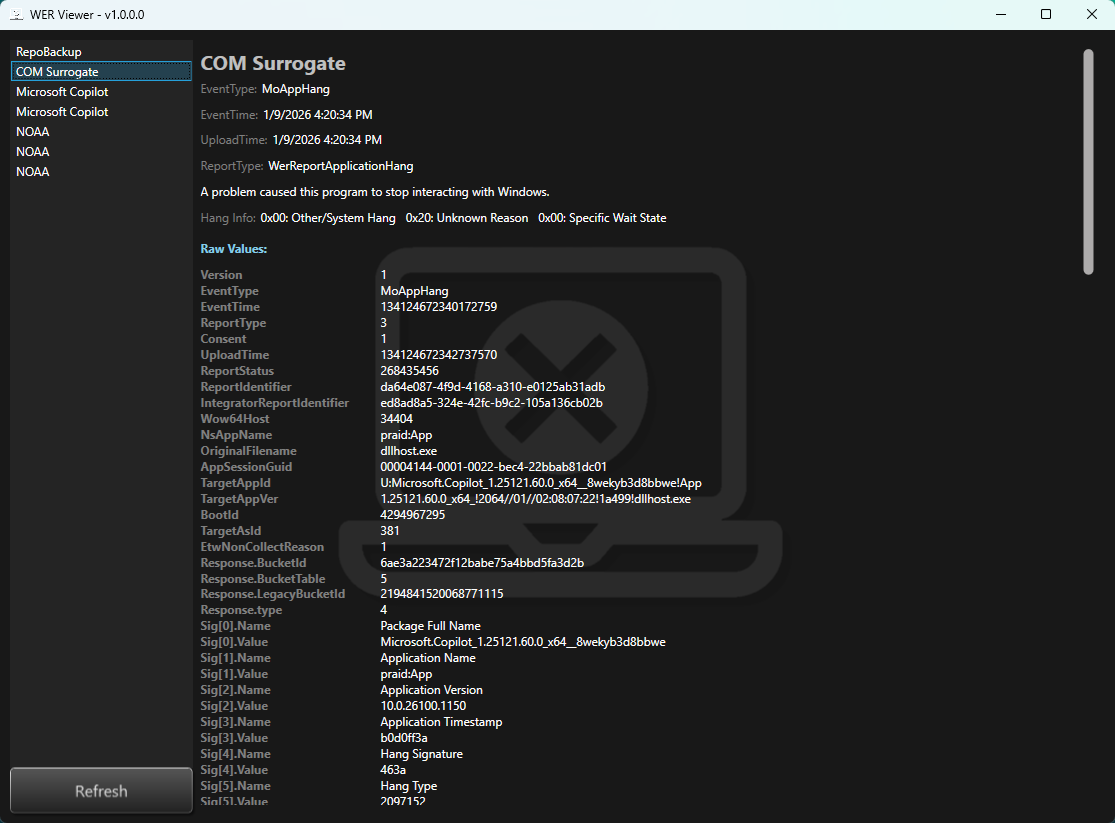
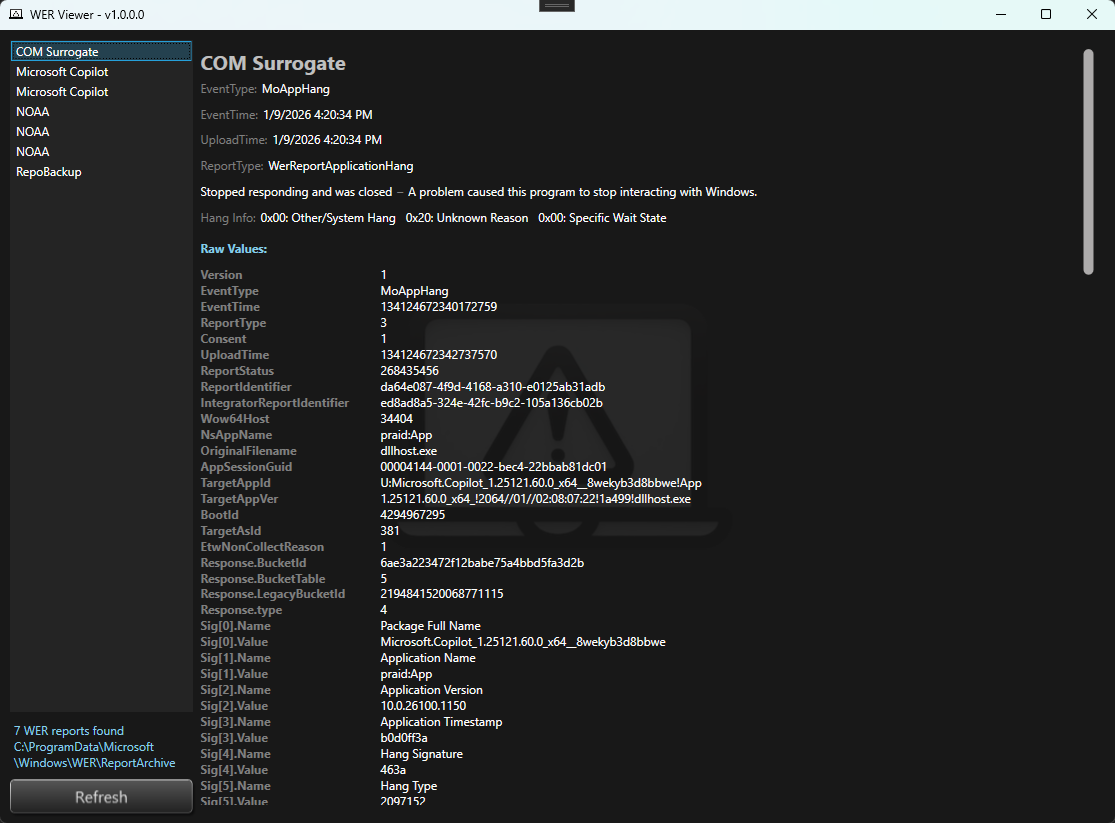
general updates

diff --git a/MainWindow.xaml b/MainWindow.xaml
@@ -13,7 +13,7 @@
     Background="#181818"
     Closing="Window_Closing"
     Deactivated="Window_Deactivated"
-    Icon="/Assets/logo.ico"
+    Icon="/Assets/logo3sm.ico"
     Loaded="Window_Loaded"
     SizeChanged="Window_SizeChanged"
     WindowStartupLocation="Manual"
@@ -27,7 +27,8 @@
 
         <Grid Grid.Column="0">
             <Grid.RowDefinitions>
-                <RowDefinition Height="16*" />
+                <RowDefinition Height="20*" />
+                <RowDefinition Height="2*" />
                 <RowDefinition Height="1*" />
             </Grid.RowDefinitions>
             <!--  List of reports  -->
@@ -49,9 +50,19 @@
                 Opacity="0.8"
                 Source="/Assets/empty.png"
                 Visibility="Hidden" />
+            <TextBlock
+                Grid.Row="1"
+                Padding="4"
+                HorizontalAlignment="Left"
+                VerticalAlignment="Center"
+                FontSize="12"
+                FontWeight="Regular"
+                TextWrapping="WrapWithOverflow"
+                Foreground="SkyBlue"
+                Text="{Binding Status}" />
             <Button
                 x:Name="btnRefresh"
-                Grid.Row="1"
+                Grid.Row="2"
                 Click="Button_Click"
                 Content="Refresh"
                 FontSize="16"
@@ -136,10 +147,20 @@
                             Foreground="White"
                             Text="{Binding SelectedReport.ReportType}" />
                     </StackPanel>
-                    <TextBlock
-                        Margin="0,5"
-                        Foreground="White"
-                        Text="{Binding SelectedReport.ReportDescription}" />
+                    <StackPanel Orientation="Horizontal">
+                        <TextBlock
+                            Margin="0,5"
+                            Foreground="White"
+                            Text="{Binding SelectedReport.FriendlyEventName}" />
+                        <TextBlock
+                            Margin="5,5"
+                            Foreground="Gray"
+                            Text="–" />
+                        <TextBlock
+                            Margin="0,5"
+                            Foreground="White"
+                            Text="{Binding SelectedReport.ReportDescription}" />
+                    </StackPanel>
                     <StackPanel Orientation="Horizontal">
                         <TextBlock
                             Margin="0,5"

diff --git a/App.xaml b/App.xaml
@@ -13,8 +13,8 @@
 
         <ImageBrush
             x:Key="MainBackground"
-            ImageSource="Assets/logo2.png"
-            Opacity="0.08"
+            ImageSource="Assets/logo3.png"
+            Opacity="0.07"
             Stretch="None" />
 
         <!--#region [Colors and Brushes]-->

diff --git a/MainWindow.xaml.cs b/MainWindow.xaml.cs
@@ -38,8 +38,7 @@ namespace WERViewer
         public MainWindow()
         {
             InitializeComponent();
-            //this.DataContext = this; // ⇦ very important for INotifyPropertyChanged!
-            this.DataContext = _vm; // ⇦ very important for INotifyPropertyChanged!
+            this.DataContext = _vm; // ⇦ context must be set for INotifyPropertyChanged
             Debug.WriteLine($"[INFO] Application version {App.GetCurrentAssemblyVersion()}");
 
             var cvrt = 67246336;
@@ -53,11 +52,14 @@ namespace WERViewer
         async void Window_Loaded(object sender, RoutedEventArgs e)
         {
             this.Title = $"WER Viewer - v{App.GetCurrentAssemblyVersion()}";
+
+            string progDataPath = Environment.GetFolderPath(Environment.SpecialFolder.CommonApplicationData);
+            Debug.WriteLine($"[INFO] User's CommonApplicationData location is \"{progDataPath}\"");
             _windowTop = ConfigManager.Get("WindowTop", defaultValue: 200d);
             _windowLeft = ConfigManager.Get("WindowLeft", defaultValue: 250d);
             _windowWidth = ConfigManager.Get("WindowWidth", defaultValue: 1200d);
             _windowHeight = ConfigManager.Get("WindowHeight", defaultValue: 800d);
-            _reportPath = ConfigManager.Get("ReportPath", defaultValue: @"C:\ProgramData\Microsoft\Windows\WER\ReportArchive");
+            _reportPath = ConfigManager.Get("ReportPath", defaultValue: System.IO.Path.Combine(progDataPath, @"Microsoft\Windows\WER\ReportArchive"));
             _vm.Status = $"🔔 Restoring window position";
 
             // Check if position is on any screen
@@ -68,17 +70,17 @@ namespace WERViewer
             await _vm.LoadAsync(_reportPath);
             await Dispatcher.InvokeAsync(async () =>
             {
-                await Task.Delay(1000);
+                await Task.Delay(1000); // prevent spamming
                 btnRefresh.IsEnabled = true;
                 spProgress.Visibility = Visibility.Hidden;
                 if (_vm.GetCount() == 0)
                 {
-                    _vm.Status = "⚠ No WER reports found.";
+                    _vm.Status = $"⚠ No WER reports found{Environment.NewLine}{_reportPath}";
                     imgEmpty.Visibility = Visibility.Visible;
                 }
                 else
                 {
-                    _vm.Status = $"{_vm.GetCount()} WER reports found";
+                    _vm.Status = $"{_vm.GetCount()} WER reports found{Environment.NewLine}{_reportPath}";
                     imgEmpty.Visibility = Visibility.Hidden;
                 }
             }, System.Windows.Threading.DispatcherPriority.Background);
@@ -125,22 +127,23 @@ namespace WERViewer
         /// </summary>
         async void Button_Click(object sender, RoutedEventArgs e)
         {
+            _vm.Status = $"Fetching reports…";
             btnRefresh.IsEnabled = false;
             spProgress.Visibility = Visibility.Visible;
             await _vm.LoadAsync(_reportPath);
             await Dispatcher.InvokeAsync(async () =>
             {
-                await Task.Delay(1000);
+                await Task.Delay(1000); // prevent spamming
                 btnRefresh.IsEnabled = true;
                 spProgress.Visibility = Visibility.Hidden;
                 if (_vm.GetCount() == 0)
                 {
-                    _vm.Status = $"⚠ No WER reports found";
+                    _vm.Status = $"⚠ No WER reports found{Environment.NewLine}{_reportPath}";
                     imgEmpty.Visibility = Visibility.Visible;
                 }
                 else
                 {
-                    _vm.Status = $"{_vm.GetCount()} WER reports found";
+                    _vm.Status = $"{_vm.GetCount()} WER reports found{Environment.NewLine}{_reportPath}";
                     imgEmpty.Visibility = Visibility.Hidden;
                 }
             }, System.Windows.Threading.DispatcherPriority.Background);

diff --git a/Services/WerReportService.cs b/Services/WerReportService.cs
@@ -35,7 +35,16 @@ namespace WERViewer
                     reports.Add(parsed);
             }
 
-            return reports.OrderByDescending(r => r.EventTime).ToList();
+            try
+            {
+                // There should always be an EventTime.
+                return reports.OrderByDescending(r => DateTime.Parse(r.EventTime)).ToList();
+            }
+            catch (Exception ex)
+            {
+                Debug.WriteLine($"LoadReportsAsync: {ex.Message}");
+                return reports;
+            }
         }
 
         async Task<WerReport> ParseWerFileAsync(string file)
@@ -57,7 +66,7 @@ namespace WERViewer
                 #region [Additional Hang Type Evaluation]
                 if (value.StartsWith("Hang Type"))
                 { 
-                    // Get the value to convert
+                    // Get the key's value to convert
                     var tmp = lines[index + 1].Split(delimiter, 2);
                     var hkey = tmp[0].Trim();
                     var hvalue = tmp[1].Trim();
@@ -65,7 +74,6 @@ namespace WERViewer
                     {
                         report.HangInfo = WerHangAnalyzer.AnalyzeHangType(ht);
                     }
-                   
                 }
                 #endregion
 
@@ -84,6 +92,10 @@ namespace WERViewer
                                 report.EventTime = $"{localDate}";
                             }
                             catch { report.EventTime = value; }
+                        }
+                        else
+                        {
+                            report.EventTime = $"{DateTime.Now}";
                         }
                         break;
                     case "NsAppName":

diff --git a/README.md b/README.md
@@ -1,4 +1,4 @@
-![Icon](./Assets/logo.png)
+![Icon](./Assets/logo3sm.png)
 
 ## WER Viewer - WPF
 
@@ -10,6 +10,7 @@
 | .NET Framework | 4.8 |
 
 - A [WPF](https://learn.microsoft.com/en-us/dotnet/desktop/wpf) application that fetches the WER reports from Windows.
+    - Specifically from the `Environment.SpecialFolder.CommonApplicationData`
 - Don't forget to give a ⭐ if you find this repo helpful or informative.
 
 ![Screenshot](./Assets/Screenshot.png)
